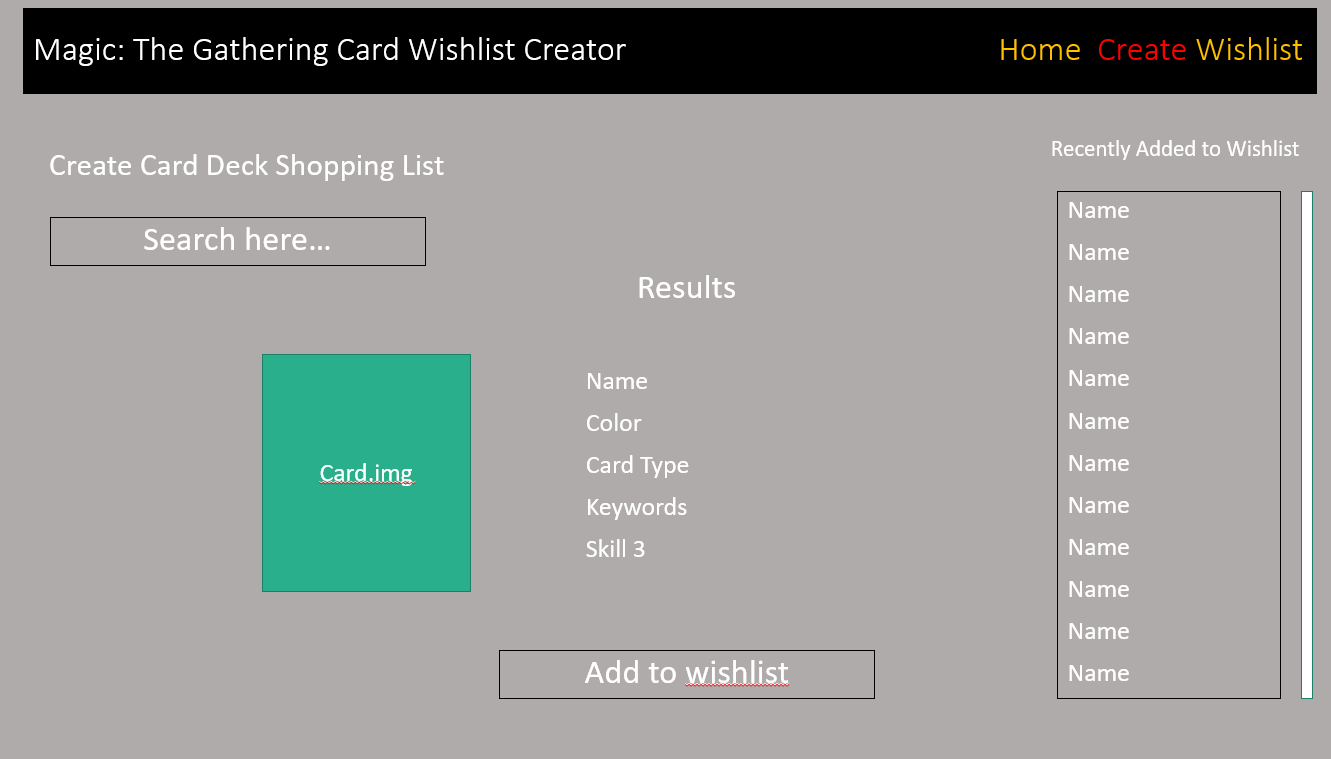
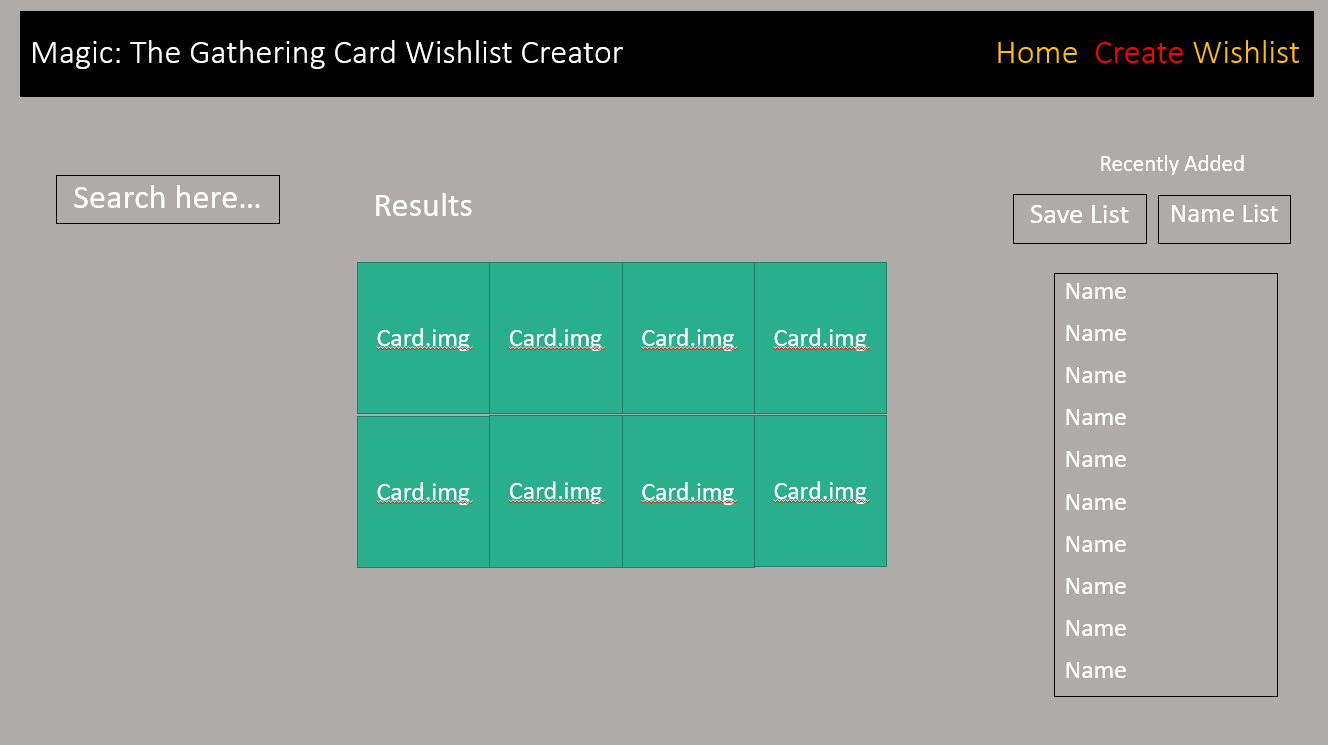
Added Javascript to the Wishlist and a couple css styles to wishlist page

diff --git a/assets/js/wishlist.js b/assets/js/wishlist.js
@@ -1,4 +1,5 @@
-let cardWishlist = document.querySelector(".container");
+let arrCardWishlist = [];
+let cardWishlistEl = document.getElementById("cards-id");
 
 let gifyURL =
   "https://api.giphy.com/v1/gifs/search?api_key=nP9BkrRS5LsHhVROKIrah4GzQ3R1k7PV&q=";
@@ -50,14 +51,20 @@ gif.addEventListener("click", function () {
 });
 
 // displaying cards on wishlist
-
-// function displayCards() {
-//   cardWishlist.innerHTML = localStorage.getItem("placeholder-value");
-// }
-
-// displayCards();
+function displayCardz() {
+  arrCardWishlist = JSON.parse(localStorage.getItem("deck"));
+  console.log(arrCardWishlist);
+  for (let index = 0; index < arrCardWishlist.length; index++) {
+    var cardImage = arrCardWishlist[index].cardImg;
+    var cardImageEl = document.createElement("img");
+    cardImageEl.setAttribute("src", cardImage);
+    cardWishlistEl.append(cardImageEl);
+  }
+}
 
 submitBtn.addEventListener("click", function (event) {
   event.preventDefault();
   formSubmission();
 });
+
+displayCardz();

diff --git a/wishlist.html b/wishlist.html
@@ -50,7 +50,7 @@
     </section>
 
     <!-- containers with three columns each to place the cards image and stats-->
-    <div class="container-cards">Container for the Cards</div>
+    <div class="container-cards" id="cards-id"></div>
 
     <form>
       <!-- Name input -->

diff --git a/assets/css/style.css b/assets/css/style.css
@@ -159,3 +159,9 @@ textarea {
   border: white solid 1px;
   margin-bottom: 5px;
 }
+
+#cards-id img {
+  width: 200px;
+  height: auto;
+  border-radius: 10px;
+}
